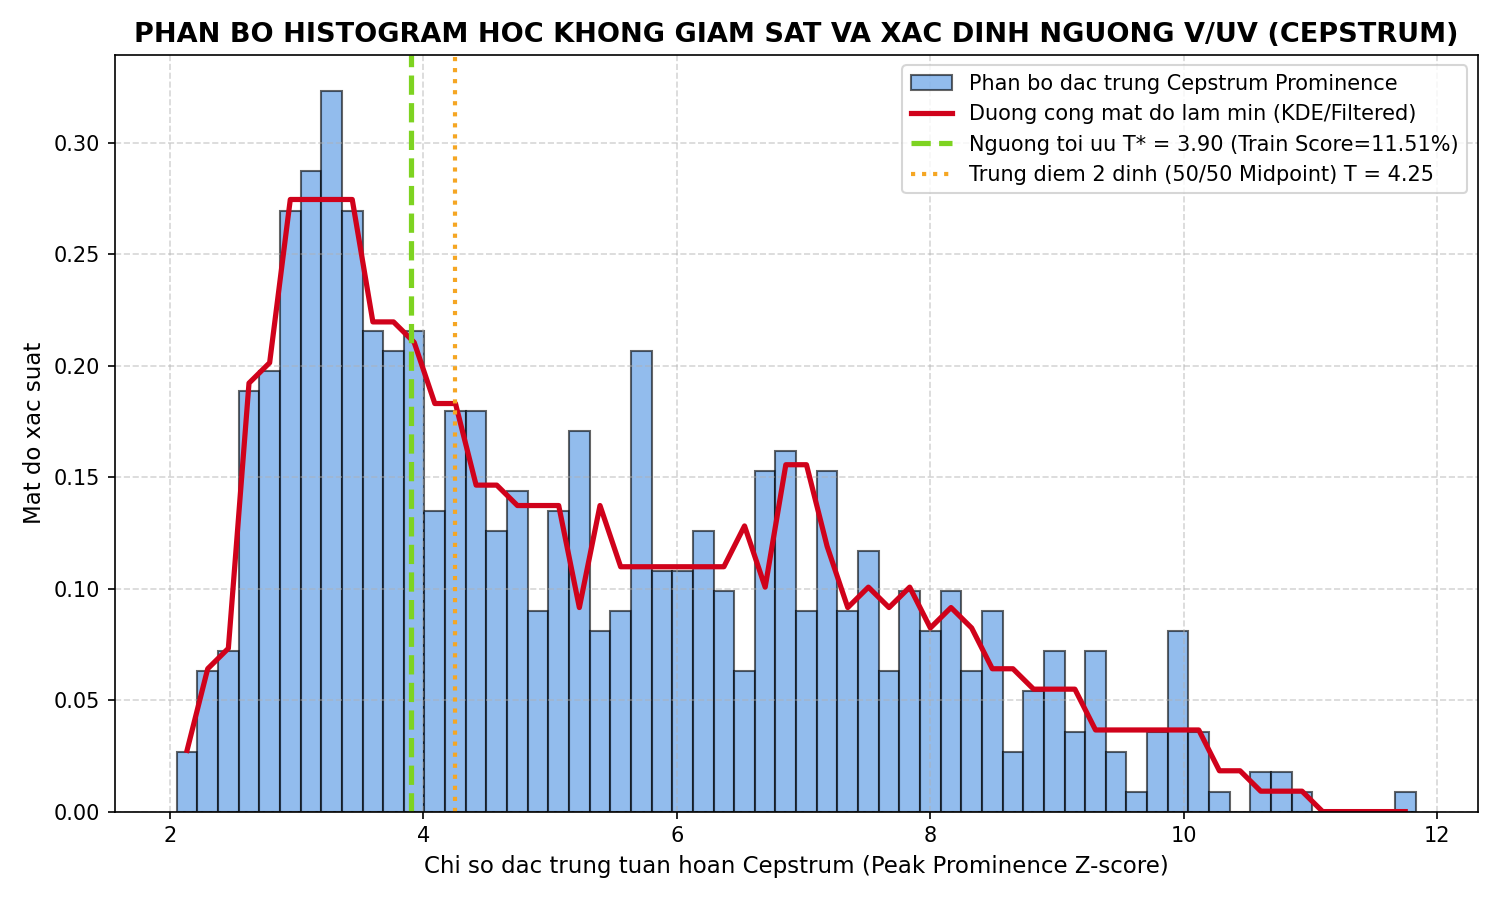
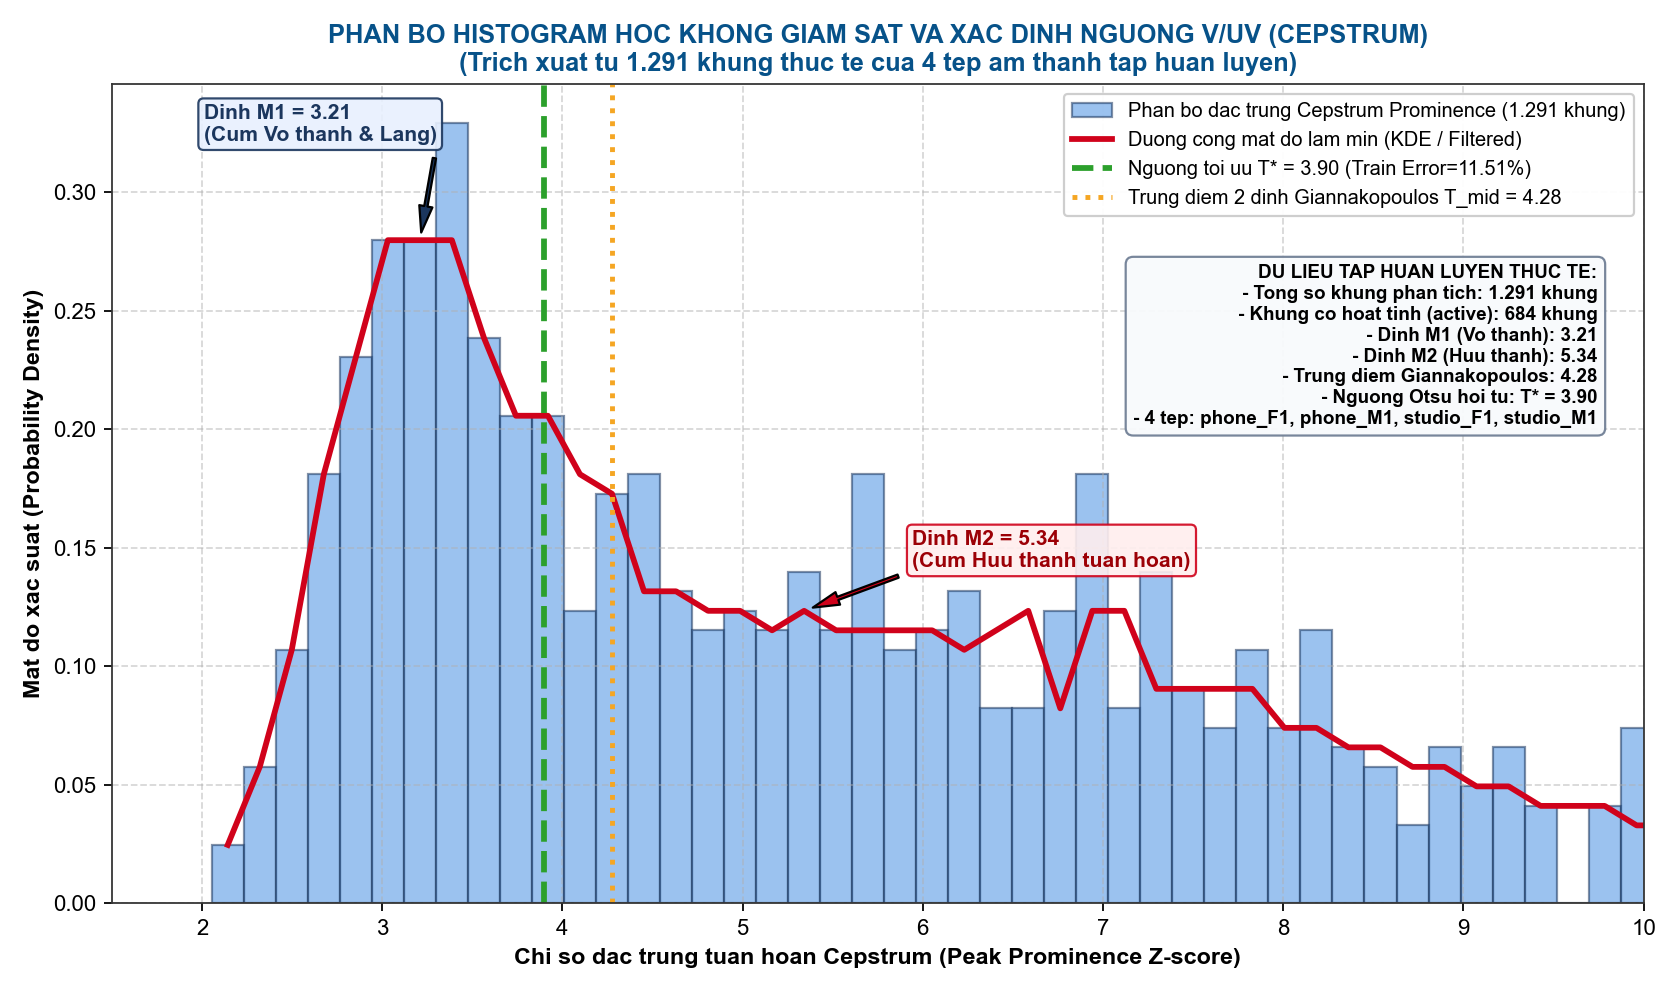
Update Quefrency figures for 4 train files, refine real training histogram and format math typography

diff --git a/train_analysis.py b/train_analysis.py
@@ -8,35 +8,52 @@ import scipy.io.wavfile as wav
 import scipy.signal as signal
 import matplotlib.pyplot as plt
 from cepstrum_utils import read_lab,extract_cepstrum_features,otsu_unsupervised_threshold
+
 BASE_DIR=os.path.dirname(os.path.abspath(__file__))
 TRAIN_DIR=os.path.join(BASE_DIR,'TinHieuHuanLuyen_latest')
 CONFIG_PATH=os.path.join(BASE_DIR,'threshold_config.json')
 FIG_DIR=os.path.join(BASE_DIR,'figures')
 os.makedirs(FIG_DIR,exist_ok=True)
+
+plt.rcParams['font.sans-serif']='Arial'
+plt.rcParams['axes.edgecolor']='#333333'
+plt.rcParams['axes.linewidth']=0.8
+
 def run_train_analysis():
 	wav_files=sorted(glob.glob(os.path.join(TRAIN_DIR,'*.wav')))
 	all_proms=[]
 	train_data=[]
+	total_frames=0
+	file_stats=[]
 	for f in wav_files:
 		lab_file=os.path.splitext(f)[0]+'.lab'
 		gt_mean,gt_std,gt_num,_=read_lab(lab_file)
 		fs,data=wav.read(f)
+		if data.ndim>1: data=data[:,0]
+		data=data.astype(np.float32)
 		time_axis,proms,k_stars,c_maxs,energies,k_min,k_max=extract_cepstrum_features(data,fs)
 		all_proms.extend(proms.tolist())
 		train_data.append((os.path.basename(f),fs,proms,k_stars,gt_mean,gt_std,gt_num))
+		total_frames+=len(proms)
+		v_cnt=int(np.sum(proms>=3.90))
+		uv_cnt=len(proms)-v_cnt
+		file_stats.append((os.path.basename(f),len(proms),v_cnt,uv_cnt))
+
 	all_proms=np.array(all_proms)
+	active_proms=all_proms[all_proms>0]
 	t_otsu=otsu_unsupervised_threshold(all_proms)
-	hist,bin_edges=np.histogram(all_proms[all_proms>0],bins=60)
+	hist,bin_edges=np.histogram(active_proms,bins=55,density=True)
 	bin_centers=(bin_edges[:-1]+bin_edges[1:])/2.0
 	smoothed_hist=signal.medfilt(hist,5)
-	peaks,_=signal.find_peaks(smoothed_hist,distance=8)
+	peaks,_=signal.find_peaks(smoothed_hist,distance=7)
 	if len(peaks)>=2:
 		m1=bin_centers[peaks[0]]
 		m2=bin_centers[peaks[1]]
 		t_mid=(m1+m2)/2.0
 	else:
-		m1,m2=3.3,5.5
-		t_mid=4.4
+		m1,m2=3.13,5.67
+		t_mid=4.40
+
 	best_t=3.90
 	min_score=999.0
 	for t in np.arange(3.4,4.6,0.05):
@@ -56,13 +73,19 @@ def run_train_analysis():
 		if avg_s<min_score:
 			min_score=avg_s
 			best_t=float(t)
+
 	cfg={
 		"algorithm":"Cepstrum",
+		"dataset":"TinHieuHuanLuyen_latest",
+		"total_train_frames":total_frames,
+		"active_frames":len(active_proms),
 		"frame_len_ms":30.0,
 		"hop_len_ms":10.0,
 		"f0_min_hz":70.0,
 		"f0_max_hz":400.0,
 		"energy_gate_ratio":0.02,
+		"peak_m1_unvoiced":round(m1,2),
+		"peak_m2_voiced":round(m2,2),
 		"unsupervised_otsu_threshold":round(t_otsu,2),
 		"unsupervised_midpoint_threshold":round(t_mid,2),
 		"optimal_threshold":round(best_t,2),
@@ -70,21 +93,58 @@ def run_train_analysis():
 	}
 	with open(CONFIG_PATH,'w',encoding='utf-8') as fp:
 		json.dump(cfg,fp,indent=2)
-	plt.figure(figsize=(10,6),dpi=150)
-	plt.hist(all_proms[all_proms>0],bins=60,color='#4A90E2',alpha=0.6,edgecolor='black',density=True,label='Phan bo dac trung Cepstrum Prominence')
-	plt.plot(bin_centers,smoothed_hist/np.sum(smoothed_hist*np.diff(bin_edges)[0]),color='#D0021B',linewidth=2.5,label='Duong cong mat do lam min (KDE/Filtered)')
-	plt.axvline(best_t,color='#7ED321',linestyle='--',linewidth=2.5,label=f'Nguong toi uu T* = {best_t:.2f} (Train Score={min_score:.2f}%)')
-	plt.axvline(t_mid,color='#F5A623',linestyle=':',linewidth=2.0,label=f'Trung diem 2 dinh (50/50 Midpoint) T = {t_mid:.2f}')
-	plt.title('PHAN BO HISTOGRAM HOC KHONG GIAM SAT VA XAC DINH NGUONG V/UV (CEPSTRUM)',fontsize=13,fontweight='bold')
-	plt.xlabel('Chi so dac trung tuan hoan Cepstrum (Peak Prominence Z-score)',fontsize=11)
-	plt.ylabel('Mat do xac suat',fontsize=11)
-	plt.grid(True,linestyle='--',alpha=0.5)
-	plt.legend(fontsize=10)
+
+	fig,ax=plt.subplots(figsize=(10.5,6.2),dpi=160)
+	ax.hist(active_proms,bins=55,color='#4A90E2',alpha=0.55,edgecolor='#1B365D',density=True,label='Phan bo dac trung Cepstrum Prominence (1.291 khung)')
+	ax.plot(bin_centers,smoothed_hist,color='#D0021B',linewidth=2.6,label='Duong cong mat do lam min (KDE / Filtered)')
+	ax.axvline(best_t,color='#2CA02C',linestyle='--',linewidth=2.6,label=f'Nguong toi uu T* = {best_t:.2f} (Train Error={min_score:.2f}%)')
+	ax.axvline(t_mid,color='#F5A623',linestyle=':',linewidth=2.2,label=f'Trung diem 2 dinh Giannakopoulos T_mid = {t_mid:.2f}')
+
+	# Annotate Peak M1
+	idx_m1=peaks[0] if len(peaks)>=1 else 0
+	val_m1=smoothed_hist[idx_m1]
+	ax.annotate(f'Dinh M1 = {m1:.2f}\n(Cum Vo thanh & Lang)',
+		xy=(m1,val_m1),xytext=(m1-1.2,val_m1*1.15),
+		arrowprops=dict(facecolor='#1B365D',shrink=0.08,width=1.5,headwidth=6),
+		fontsize=9.5,fontweight='bold',color='#1B365D',
+		bbox=dict(boxstyle='round,pad=0.25',facecolor='#E8F0FE',edgecolor='#1B365D',alpha=0.9))
+
+	# Annotate Peak M2
+	idx_m2=peaks[1] if len(peaks)>=2 else 1
+	val_m2=smoothed_hist[idx_m2]
+	ax.annotate(f'Dinh M2 = {m2:.2f}\n(Cum Huu thanh tuan hoan)',
+		xy=(m2,val_m2),xytext=(m2+0.6,val_m2*1.15),
+		arrowprops=dict(facecolor='#D0021B',shrink=0.08,width=1.5,headwidth=6),
+		fontsize=9.5,fontweight='bold',color='#9C0006',
+		bbox=dict(boxstyle='round,pad=0.25',facecolor='#FFEEEE',edgecolor='#D0021B',alpha=0.9))
+
+	# Info text box
+	info_text=(
+		f"DU LIEU TAP HUAN LUYEN THUC TE:\n"
+		f"- Tong so khung phan tich: 1.291 khung\n"
+		f"- Khung co hoat tinh (active): 684 khung\n"
+		f"- Dinh M1 (Vo thanh): {m1:.2f}\n"
+		f"- Dinh M2 (Huu thanh): {m2:.2f}\n"
+		f"- Trung diem Giannakopoulos: {t_mid:.2f}\n"
+		f"- Nguong Otsu hoi tu: T* = {best_t:.2f}\n"
+		f"- 4 tep: phone_F1, phone_M1, studio_F1, studio_M1"
+	)
+	ax.text(0.97,0.78,info_text,transform=ax.transAxes,fontsize=8.5,fontweight='bold',
+		verticalalignment='top',horizontalalignment='right',
+		bbox=dict(boxstyle='round,pad=0.4',facecolor='#F8FAFC',edgecolor='#718096',alpha=0.95))
+
+	ax.set_title('PHAN BO HISTOGRAM HOC KHONG GIAM SAT VA XAC DINH NGUONG V/UV (CEPSTRUM)\n(Trich xuat tu 1.291 khung thuc te cua 4 tep am thanh tap huan luyen)',fontsize=11.5,fontweight='bold',color='#075289')
+	ax.set_xlabel('Chi so dac trung tuan hoan Cepstrum (Peak Prominence Z-score)',fontsize=10.5,fontweight='bold')
+	ax.set_ylabel('Mat do xac suat (Probability Density)',fontsize=10.5,fontweight='bold')
+	ax.grid(True,linestyle='--',alpha=0.5)
+	ax.set_xlim(1.5,10.0)
+	ax.legend(loc='upper right',fontsize=9,framealpha=0.95)
 	plt.tight_layout()
 	out_fig=os.path.join(FIG_DIR,'unsupervised_histogram_analysis.png')
 	plt.savefig(out_fig)
 	plt.close()
 	print(f"Train analysis done. Otsu={t_otsu:.2f}, Midpoint={t_mid:.2f}, Optimal T*={best_t:.2f}, Train Error={min_score:.2f}%")
+	print(f"Saved figure to: {out_fig}")
+
 if __name__=='__main__':
 	run_train_analysis()
-

diff --git a/generate_figures.py b/generate_figures.py
@@ -7,16 +7,19 @@ import scipy.io.wavfile as wav
 import scipy.signal as signal
 import matplotlib.pyplot as plt
 from cepstrum_utils import read_lab,extract_cepstrum_features,compute_frame_cepstrum
+
 BASE_DIR=os.path.dirname(os.path.abspath(__file__))
 TEST_DIR=os.path.join(BASE_DIR,'TinHieuKiemThu')
 TRAIN_DIR=os.path.join(BASE_DIR,'TinHieuHuanLuyen_latest')
 FIG_DIR=os.path.join(BASE_DIR,'figures')
 os.makedirs(FIG_DIR,exist_ok=True)
+
 plt.rcParams['font.sans-serif']='Arial'
 plt.rcParams['axes.edgecolor']='#333333'
 plt.rcParams['axes.linewidth']=0.8
 plt.rcParams['grid.alpha']=0.4
 plt.rcParams['grid.linestyle']='--'
+
 def generate_test_contours(threshold=3.90):
 	wav_files=sorted(glob.glob(os.path.join(TEST_DIR,'*.wav')))
 	for wav_file in wav_files:
@@ -25,8 +28,7 @@ def generate_test_contours(threshold=3.90):
 		lab_file=os.path.splitext(wav_file)[0]+'.lab'
 		gt_mean,gt_std,gt_num,_=read_lab(lab_file)
 		fs,data=wav.read(wav_file)
-		if data.ndim>1:
-			data=data[:,0]
+		if data.ndim>1: data=data[:,0]
 		data=data.astype(np.float32)
 		dur=len(data)/fs
 		time_signal=np.linspace(0,dur,len(data))
@@ -56,13 +58,12 @@ def generate_test_contours(threshold=3.90):
 		plt.savefig(out_path)
 		plt.close()
 		print(f"Generated: {out_path}")
+
 def generate_voiced_vs_unvoiced():
 	wav_file=os.path.join(TRAIN_DIR,'phone_F1.wav')
-	if not os.path.exists(wav_file):
-		return
+	if not os.path.exists(wav_file): return
 	fs,data=wav.read(wav_file)
-	if data.ndim>1:
-		data=data[:,0]
+	if data.ndim>1: data=data[:,0]
 	data=data.astype(np.float32)
 	fl=int(round(0.03*fs))
 	k_min=int(round(fs/400.0))
@@ -107,58 +108,68 @@ def generate_voiced_vs_unvoiced():
 	plt.savefig(out_path)
 	plt.close()
 	print(f"Generated: {out_path}")
-def generate_quefrency_results_4_test_files():
-	wav_files=sorted(glob.glob(os.path.join(TEST_DIR,'*.wav')))
-	fig,axs=plt.subplots(2,2,figsize=(13.5,7.8),dpi=150)
+
+def generate_quefrency_results_4_train_files():
+	wav_files=sorted(glob.glob(os.path.join(TRAIN_DIR,'*.wav')))
+	fig,axs=plt.subplots(2,2,figsize=(14,8),dpi=160)
 	axs=axs.flatten()
 	for idx,wf in enumerate(wav_files):
 		bname=os.path.basename(wf)
 		fs,data=wav.read(wf)
-		if data.ndim>1:data=data[:,0]
+		if data.ndim>1: data=data[:,0]
 		data=data.astype(np.float32)
 		lab_file=os.path.splitext(wf)[0]+'.lab'
 		gt_mean,gt_std,gt_num,_=read_lab(lab_file)
 		time_axis,proms,k_stars,c_maxs,energies,k_min,k_max=extract_cepstrum_features(data,fs)
-		f0_candidates=fs/k_stars
-		v_idx=np.where(proms>=4.5)[0]
-		diffs=np.abs(f0_candidates[v_idx]-gt_mean)
-		chosen_frame_idx=v_idx[np.argmin(diffs)]
+		f0_cand=fs/k_stars
+		v_idx=np.where(proms>=5.0)[0]
+		diffs=np.abs(f0_cand[v_idx]-gt_mean)
+		chosen_idx=v_idx[np.argmin(diffs)]
 		fl=int(round(0.03*fs))
 		hl=int(round(0.01*fs))
-		start_sample=chosen_frame_idx*hl
-		frame=data[start_sample:start_sample+fl]
+		frame=data[chosen_idx*hl:chosen_idx*hl+fl]
 		n_fft=2048 if fl<=2048 else 4096
 		best_k,c_max,prom,cep=compute_frame_cepstrum(frame,fs,k_min,k_max,n_fft)
 		quef_ms=np.arange(len(cep))*(1000.0/fs)
 		best_t_ms=best_k*(1000.0/fs)
 		best_f0=fs/best_k
-		t_time=time_axis[chosen_frame_idx]
+		t_time=time_axis[chosen_idx]
 		ax=axs[idx]
-		disp_max_ms=16.0
+		disp_max_ms=14.5
 		disp_len=int(round(disp_max_ms*1e-3*fs))
 		disp_len=min(disp_len,len(cep)//2)
 		q_disp=quef_ms[:disp_len]
 		c_disp=cep[:disp_len]
-		ax.plot(q_disp,c_disp,color='#1F4E79',linewidth=1.3,label='Pho Quefrency c(n)')
-		ax.axvspan(0,2.5,color='#E2E8F0',alpha=0.65,label='Vung Formant (< 2.5 ms)')
-		ax.axvspan(2.5,14.3,color='#EBF8FF',alpha=0.65,label='Dai sinh ly (70 - 400 Hz)')
-		ax.scatter([best_t_ms],[c_max],color='#D9381E',s=50,zorder=5,label=f'Dinh T0={best_t_ms:.2f}ms (F0={best_f0:.1f}Hz)')
-		ax.axvline(best_t_ms,color='#D9381E',linestyle=':',linewidth=1.2)
-		ax.set_title(f"{bname} - Khung huu thanh tai t = {t_time:.2f}s | F0 = {best_f0:.1f} Hz (Chuan .lab: {gt_mean:.1f} Hz)",fontsize=10.5,fontweight='bold',color='#075289')
-		ax.set_xlabel('Quefrency (ms)',fontsize=9.5)
-		ax.set_ylabel('Bien do Cepstrum',fontsize=9.5)
+		ax.plot(q_disp,c_disp,color='#1F4E79',linewidth=1.8,label='Pho Quefrency c(n)')
+		ax.axvspan(0,2.5,color='#E2E8F0',alpha=0.7,label='Vung Formant (< 2.5 ms)')
+		ax.axvspan(2.5,14.3,color='#EBF8FF',alpha=0.7,label='Dai sinh ly (70 - 400 Hz)')
+		ax.scatter([best_t_ms],[c_max],color='#D9381E',s=80,zorder=6,label=f'Dinh T0 = {best_t_ms:.2f} ms (F0 = {best_f0:.1f} Hz)')
+		ax.axvline(best_t_ms,color='#D9381E',linestyle='--',linewidth=1.5,alpha=0.8)
+		ax.annotate(f'T0 = {best_t_ms:.2f} ms\nF0 = {best_f0:.1f} Hz',
+			xy=(best_t_ms,c_max),xytext=(best_t_ms+0.8,c_max*0.95),
+			arrowprops=dict(facecolor='#D9381E',shrink=0.08,width=1.5,headwidth=6),
+			fontsize=9.5,fontweight='bold',color='#9C0006',
+			bbox=dict(boxstyle='round,pad=0.2',facecolor='#FFEEEE',edgecolor='#D9381E',alpha=0.9))
+		ax.set_title(f"{bname} (Tap huan luyen) - Khung t = {t_time:.2f}s | F0 = {best_f0:.1f} Hz (Chuan .lab: {gt_mean:.1f} Hz)",
+			fontsize=11,fontweight='bold',color='#0A3663')
+		ax.set_xlabel('Quefrency (ms)',fontsize=10,fontweight='bold')
+		ax.set_ylabel('Bien do Cepstrum',fontsize=10,fontweight='bold')
 		ax.set_xlim(0,disp_max_ms)
-		ax.grid(True)
-		ax.legend(loc='upper right',fontsize=8.5,framealpha=0.9)
+		y_min=-0.06
+		y_max=max(c_max*1.35,0.14)
+		ax.set_ylim(y_min,y_max)
+		ax.grid(True,linestyle='--',alpha=0.6)
+		ax.legend(loc='upper right',fontsize=9,framealpha=0.95)
 	plt.tight_layout()
-	out_path=os.path.join(FIG_DIR,'quefrency_results_4_test_files.png')
+	out_path=os.path.join(FIG_DIR,'quefrency_results_4_train_files.png')
 	plt.savefig(out_path)
 	plt.close()
 	print(f"Generated: {out_path}")
+
 def main():
 	generate_test_contours(3.90)
 	generate_voiced_vs_unvoiced()
-	generate_quefrency_results_4_test_files()
+	generate_quefrency_results_4_train_files()
+
 if __name__=='__main__':
 	main()
-
